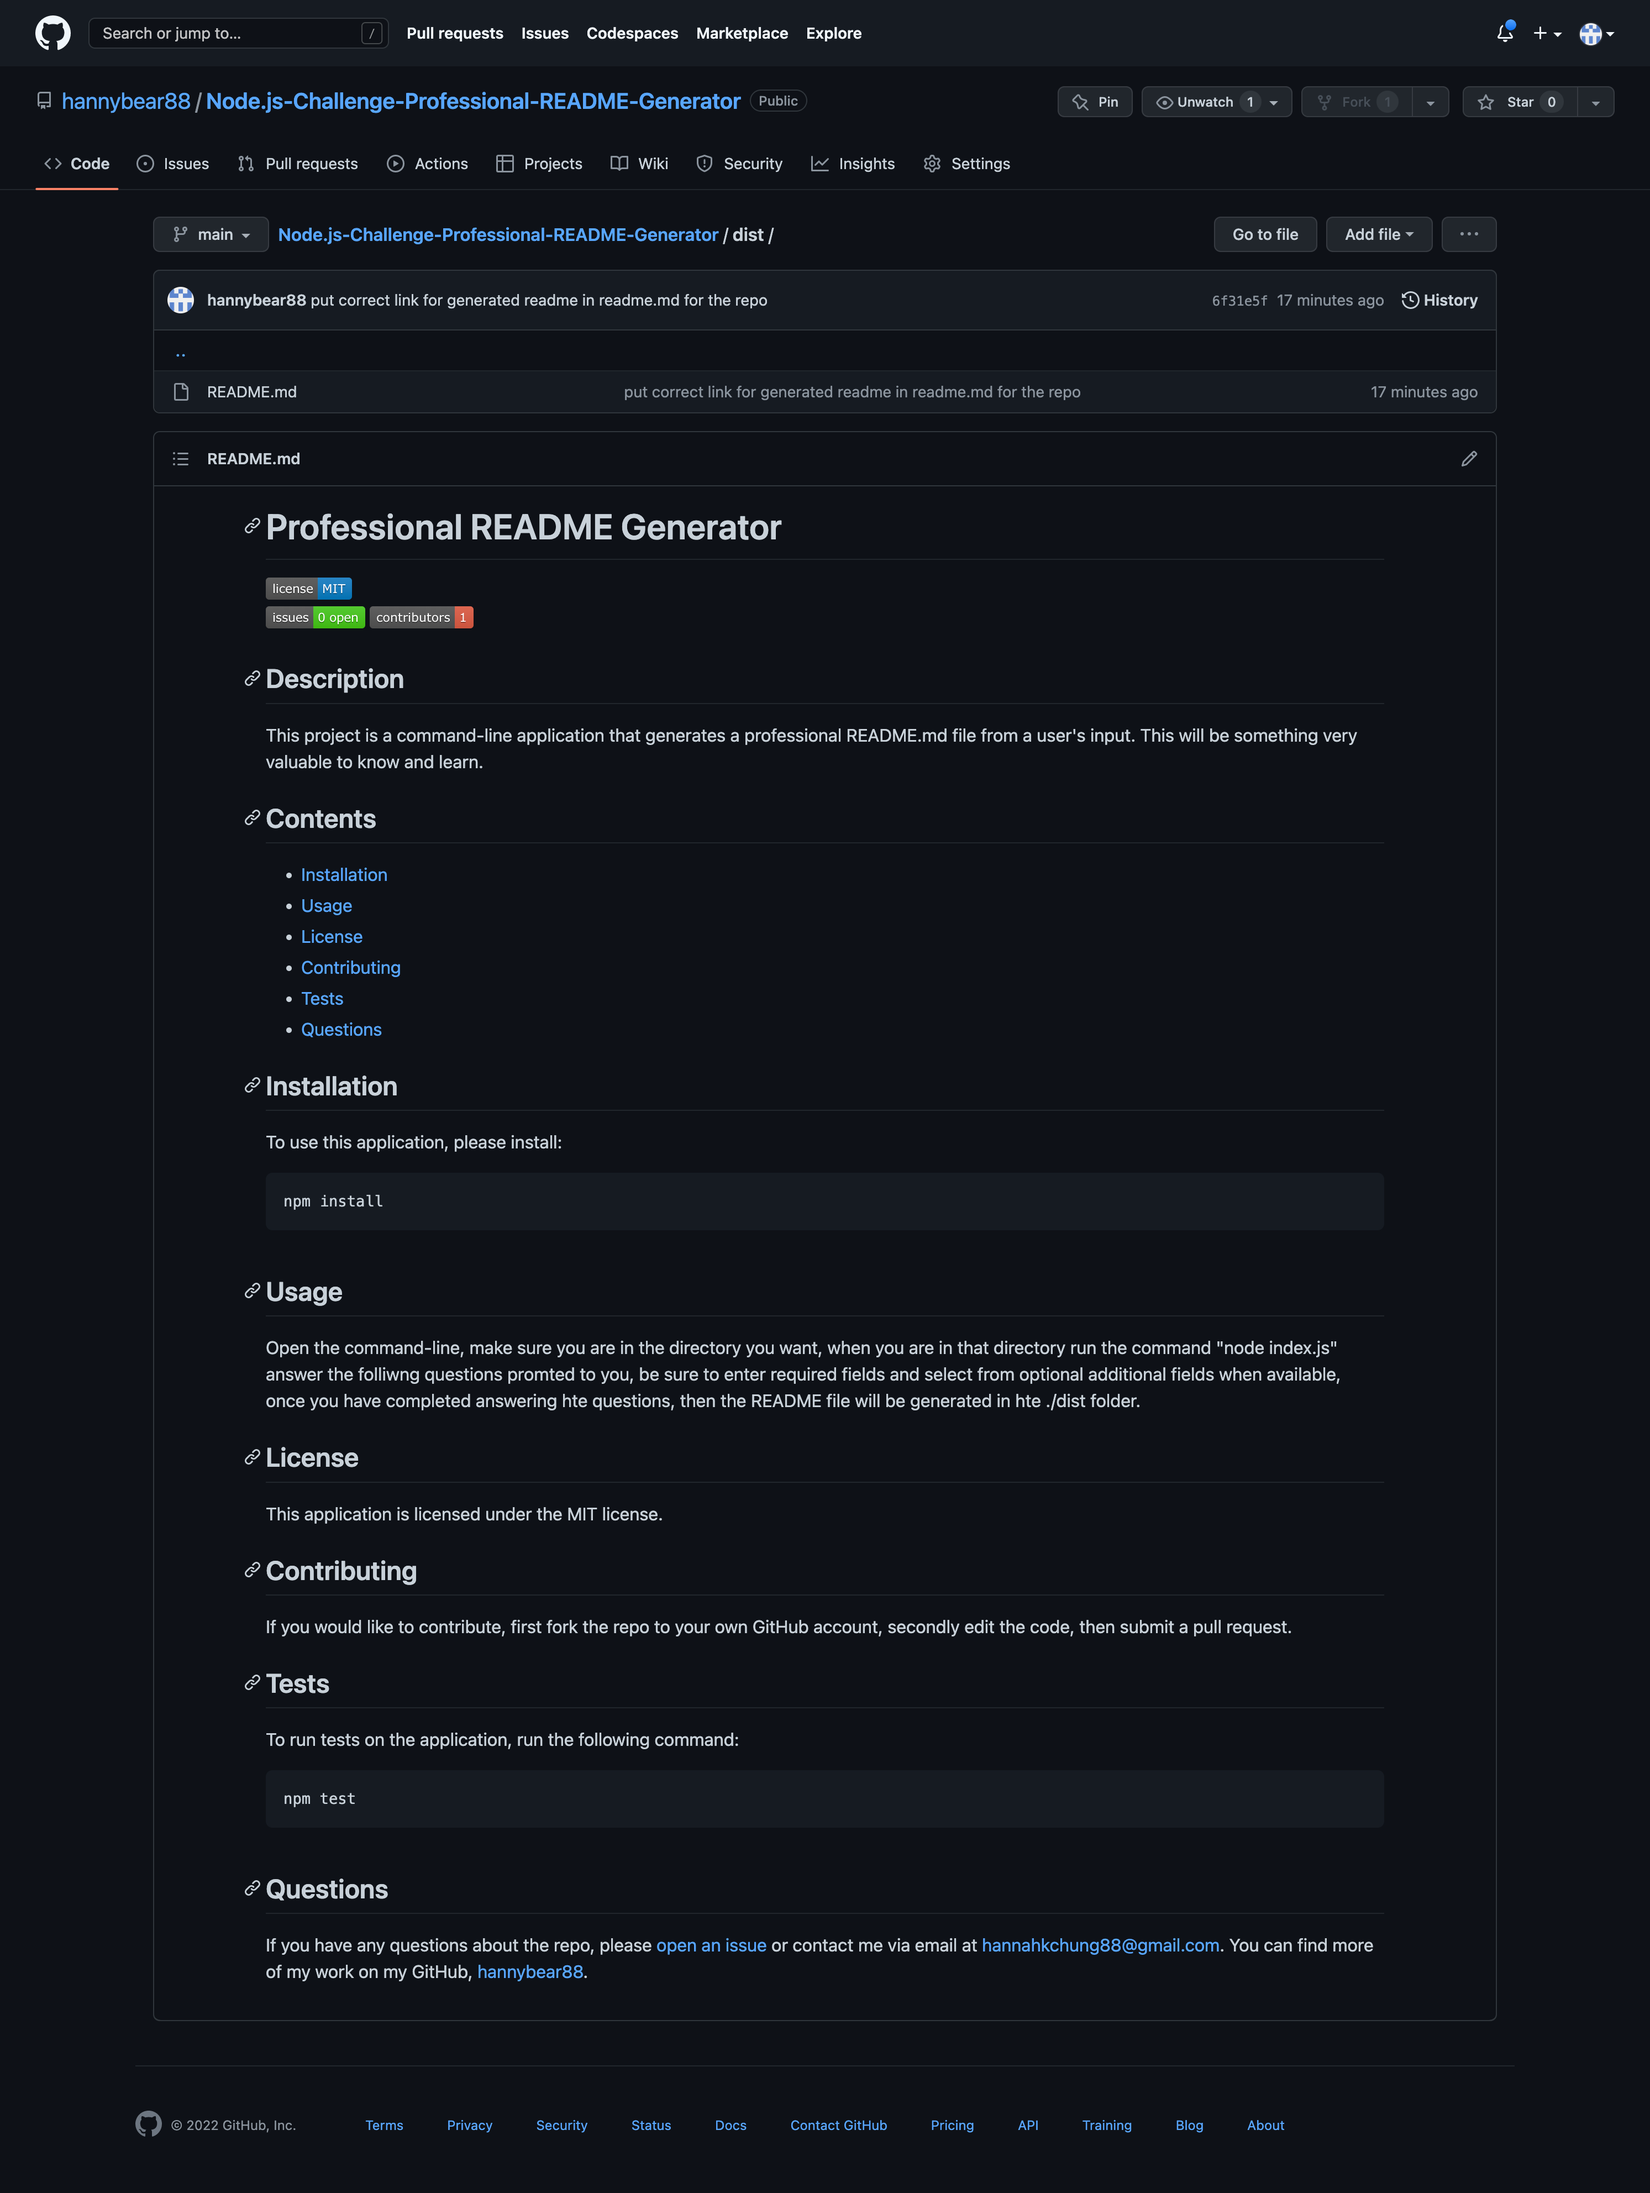
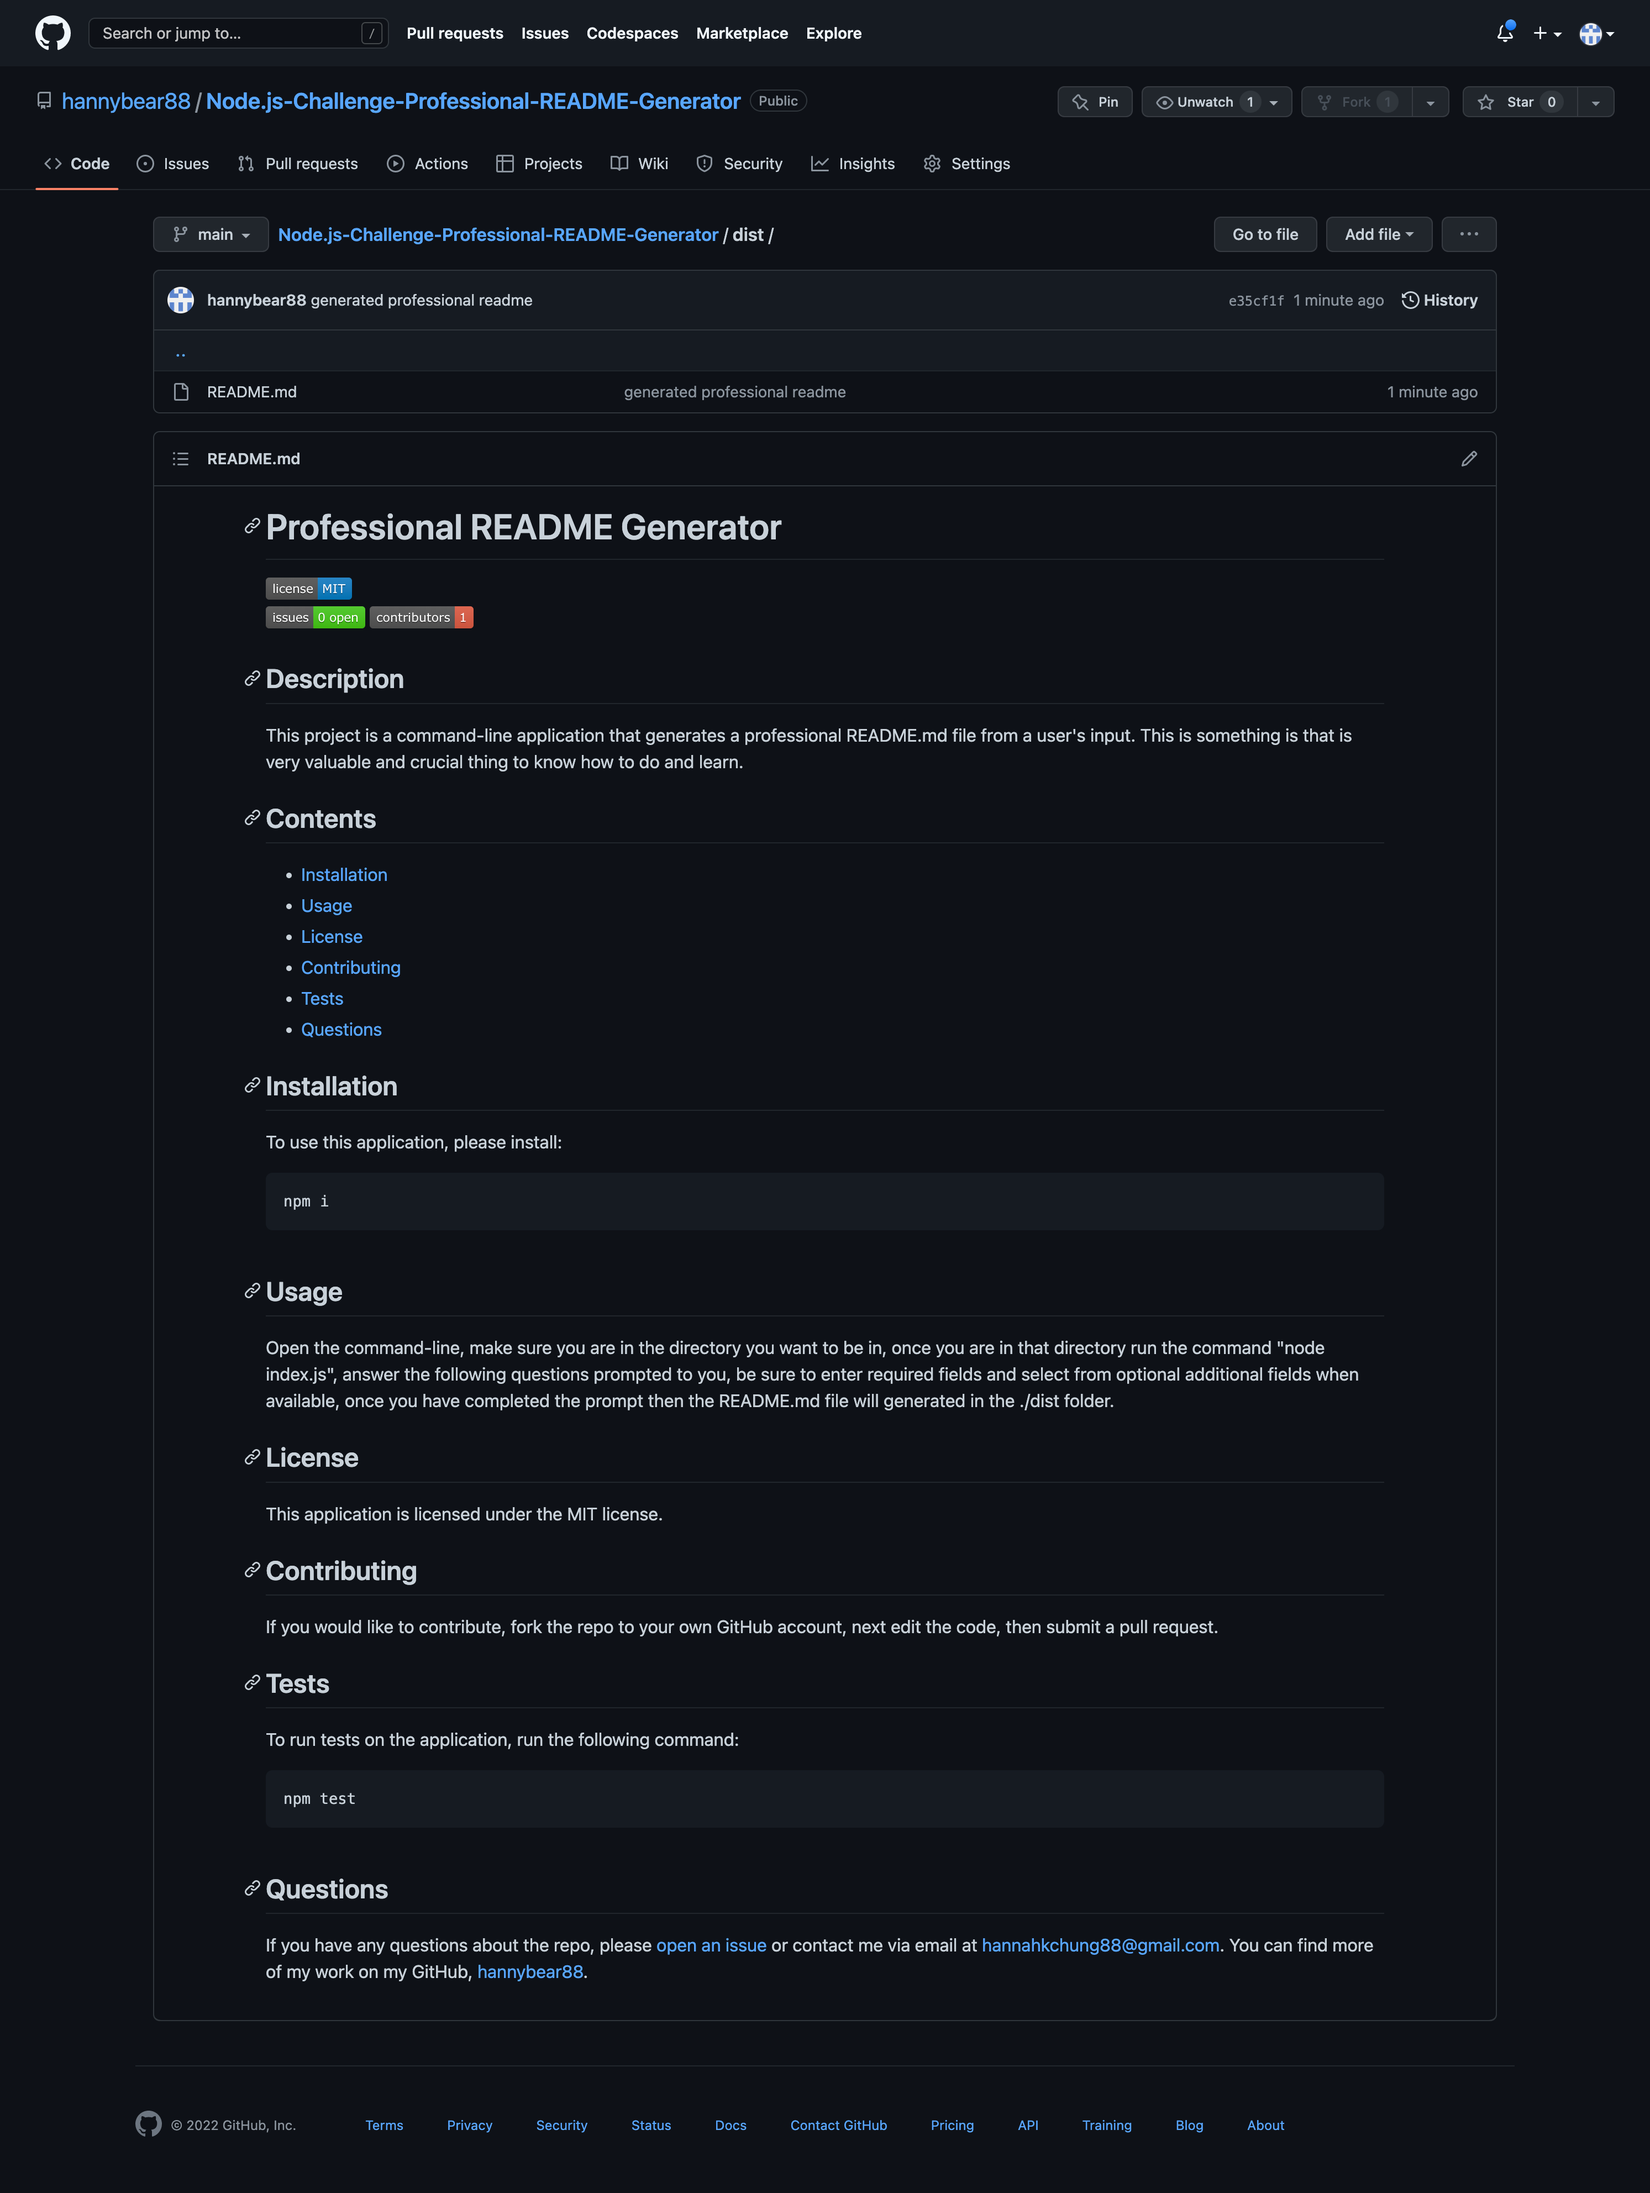
added license link to both README. files, added more text in README.md for repo itself and added images and video link to the repo README.md

diff --git a/utils/generateMarkdown.js b/utils/generateMarkdown.js
@@ -1,7 +1,7 @@
 // creates license badge if license is chosen
 const addLicenseBadge = license => {
   if (license) {
-      return `![GitHub license](https://img.shields.io/badge/license-${license}-blue.svg)`;
+      return `[![GitHub license](https://img.shields.io/badge/license-${license}-blue.svg)](https://choosealicense.com/licenses/)`;
   } else {
       return '';
   }

diff --git a/README.md b/README.md
@@ -25,7 +25,7 @@ The motivation of this project is that I can learn how to create a professional 
 
 ## Installation
 
-<!-- Installation is not required, unless you plan on cloning to refactor the code. Please <a href="mailto:hannahkchung88@gmail.com">email me</a> to make sure this is okay.  -->
+Installation is not required, unless you plan on cloning to refactor the code. Please <a href="mailto:hannahkchung88@gmail.com">email me</a> to make sure this is okay. 
 
 
 ## User Story
@@ -38,7 +38,7 @@ SO THAT I can quickly create a professional README for a new project<br>
 ## How to Use This Project and Acceptance Criteria
 
 <u><i><strong>Click on the image below to be directed straight to the generated readme</strong></i></u></a> 
-<a href= "https://github.com/hannybear88/Node.js-Challenge-Professional-README-Generator/tree/main/dist"><img src="" alt = "generated readme" /></a>
+<a href= "https://github.com/hannybear88/Node.js-Challenge-Professional-README-Generator/tree/main/dist"><img src="/assets/professiona-readme-generator-image-link-screenshot.png" alt = "professional generated readme" /></a>
 
 
 GIVEN a command-line application that accepts user input<br>
@@ -66,14 +66,14 @@ A challenge I came across was making sure I understand the homework, so that I w
 The success I am across is creating a professional README. I enjoyed creating the questions and the code for it. At first it was a bit confusing, but with the help from the instructor, TAs, and classmates, it was made more clear and I realized that this assignment is pretty straight forward. 
 
 ## Demo
-<!--screenshots-->
 
-##  Technologies
+<a href="https://youtu.be/LAx32QPB85E">click here</a> to view the walkthrough video demonstrating the functionality of the application.
 
-<ul>
-    <li>Javascript</li>
-    <li>Markdown</li>
-</ul>
+Screenshots of  professional README generator and screenshot of command-line.
+
+<img src="/assets/images/command-line-screenshot.png" /> <br>
+<img src="/assets/images/generated-professional-readme-screenshot.png" /> <br>
+
 
 ##  Support
 

diff --git a/dist/README.md b/dist/README.md
@@ -1,5 +1,5 @@
 # Professional README Generator
-![GitHub license](https://img.shields.io/badge/license-MIT-blue.svg)  
+[![GitHub license](https://img.shields.io/badge/license-MIT-blue.svg)](https://choosealicense.com/licenses/)
 [![Issues](https://img.shields.io/github/issues/hannybear88/Node.js-Challenge-Professional-README-Generator)](https://github.com/hannybear88/Node.js-Challenge-Professional-README-Generator/issues) [![Issues](https://img.shields.io/github/contributors/hannybear88/Node.js-Challenge-Professional-README-Generator)](https://github.com/hannybear88/Node.js-Challenge-Professional-README-Generator/graphs/contributors) 
 ## Description
 This project is a command-line application that generates a professional README.md file from a user's input. This is something is that is very valuable and crucial thing to know how to do and learn. 
